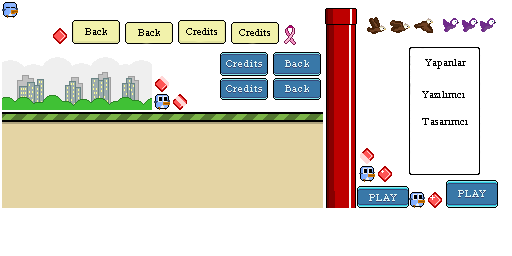
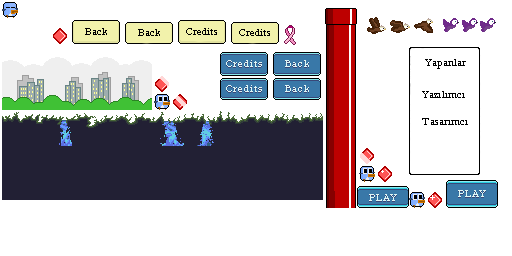
Skin ekrani eklendi (tamamlanmadi), ground degistirildi (optimize degil)

Changed region(s): [[0.0, 0.4375, 0.6562, 0.8125]]

diff --git a/core/src/com/ozzyozdil/flappydeneme/SkinScreen.java b/core/src/com/ozzyozdil/flappydeneme/SkinScreen.java
@@ -1,0 +1,170 @@
+package com.ozzyozdil.flappydeneme;
+
+import static com.ozzyozdil.flappydeneme.Assets.getBird2;
+import static com.ozzyozdil.flappydeneme.Assets.getBird3;
+import static com.ozzyozdil.flappydeneme.Assets.setBird;
+import static com.ozzyozdil.flappydeneme.Assets.setBird2;
+import static com.ozzyozdil.flappydeneme.Assets.setBird3;
+import static com.ozzyozdil.flappydeneme.Assets.setBird4;
+
+import com.badlogic.gdx.Gdx;
+import com.badlogic.gdx.ScreenAdapter;
+import com.badlogic.gdx.graphics.GL20;
+import com.badlogic.gdx.graphics.g2d.TextureAtlas;
+import com.badlogic.gdx.graphics.g2d.TextureRegion;
+import com.badlogic.gdx.scenes.scene2d.InputEvent;
+import com.badlogic.gdx.scenes.scene2d.Stage;
+import com.badlogic.gdx.scenes.scene2d.ui.Button;
+import com.badlogic.gdx.scenes.scene2d.ui.Image;
+import com.badlogic.gdx.scenes.scene2d.utils.ClickListener;
+import com.badlogic.gdx.scenes.scene2d.utils.TextureRegionDrawable;
+import com.badlogic.gdx.utils.Align;
+import com.badlogic.gdx.utils.viewport.StretchViewport;
+
+public class SkinScreen extends ScreenAdapter {
+
+    private FlappyDeneme game;
+    private Stage stage;
+
+    private Image creditsPng;
+    private Image bird1;
+    private Image bird2;
+    private Image bird3;
+    private Image bird4;
+
+    private Button backButton;
+
+    public static TextureAtlas atlas;
+
+    public static TextureRegion bird1Region;
+    public static TextureRegion bird2Region;
+    public static TextureRegion bird3Region;
+    public static TextureRegion bird4Region;
+
+    private Image backgroundBuildings;
+    private Ground ground;
+
+    public SkinScreen(FlappyDeneme game) {
+
+        this.game = game;
+        stage = new Stage(new StretchViewport(FlappyDeneme.WIDTH, FlappyDeneme.HEIGHT));
+
+        creditsAbout();
+        skins();
+        initBackButton();
+
+        ground = new Ground();
+
+        initBackgroundBuildings();
+
+        stage.addActor(ground);
+        stage.addActor(backgroundBuildings);
+        stage.addActor(creditsPng);
+        stage.addActor(bird1);
+        stage.addActor(bird2);
+        stage.addActor(bird3);
+        stage.addActor(bird4);
+        stage.addActor(backButton);
+
+        Gdx.input.setInputProcessor(stage);
+
+        atlas = new TextureAtlas("pack.atlas");
+    }
+
+    private void initBackgroundBuildings() {
+        backgroundBuildings = new Image(Assets.backgroundBuildings);
+        backgroundBuildings.setWidth(FlappyDeneme.WIDTH);
+        backgroundBuildings.setHeight(backgroundBuildings.getHeight() * 2f);
+        backgroundBuildings.setY(Ground.HEIGHT);
+    }
+
+    private void initBackButton() {
+        backButton = new Button(new TextureRegionDrawable(Assets.backUp), new TextureRegionDrawable(Assets.backDown));
+        backButton.setWidth(96);
+        backButton.setHeight(48);
+        backButton.setPosition(FlappyDeneme.WIDTH/2, FlappyDeneme.HEIGHT*.10f, Align.center);
+        backButton.addListener(new ClickListener(){
+
+            @Override
+            public void clicked(InputEvent event, float x, float y) {
+                game.setScreen(new MainMenuScreen(game));
+
+            }
+        });
+    }
+
+    private void creditsAbout() {
+        creditsPng = new Image(new TextureRegionDrawable(Assets.creditsAbout));
+        creditsPng.setWidth(260);
+        creditsPng.setHeight(370);
+        creditsPng.setPosition(FlappyDeneme.WIDTH/2, FlappyDeneme.HEIGHT*.6f, Align.center);
+    }
+
+    private void skins() {
+        bird1 = new Image(new TextureRegionDrawable(Assets.bird));
+        bird1.setWidth(32);
+        bird1.setHeight(32);
+        bird1.setPosition(FlappyDeneme.WIDTH/2 - 60, FlappyDeneme.HEIGHT*.80f, Align.center);
+        bird1.addListener(new ClickListener(){
+
+            @Override
+            public void clicked(InputEvent event, float x, float y) {
+                bird1Region = atlas.findRegion("peng");
+                setBird(bird1Region);
+                game.setScreen(new MainMenuScreen(game));
+            }
+        });
+
+        bird2 = new Image(new TextureRegionDrawable(Assets.bird2));
+        bird2.setWidth(32);
+        bird2.setHeight(32);
+        bird2.setPosition(FlappyDeneme.WIDTH/2 + 60, FlappyDeneme.HEIGHT*.80f, Align.center);
+        bird2.addListener(new ClickListener(){
+
+            @Override
+            public void clicked(InputEvent event, float x, float y) {
+                bird2Region = atlas.findRegion("peng2");
+                setBird2(bird2Region);
+                game.setScreen(new MainMenuScreen(game));
+            }
+        });
+
+        bird3 = new Image(new TextureRegionDrawable(Assets.bird3));
+        bird3.setWidth(32);
+        bird3.setHeight(32);
+        bird3.setPosition(FlappyDeneme.WIDTH/2 - 60, FlappyDeneme.HEIGHT*.60f, Align.center);
+        bird3.addListener(new ClickListener(){
+
+            @Override
+            public void clicked(InputEvent event, float x, float y) {
+                bird3Region = atlas.findRegion("peng3");
+                setBird3(bird3Region);
+                game.setScreen(new MainMenuScreen(game));
+            }
+        });
+
+        bird4 = new Image(new TextureRegionDrawable(Assets.birdDead));
+        bird4.setWidth(32);
+        bird4.setHeight(32);
+        bird4.setPosition(FlappyDeneme.WIDTH/2 + 60, FlappyDeneme.HEIGHT*.60f, Align.center);
+        bird4.addListener(new ClickListener(){
+
+            @Override
+            public void clicked(InputEvent event, float x, float y) {
+                bird4Region = atlas.findRegion("peng-dead");
+                setBird4(bird4Region);
+                game.setScreen(new MainMenuScreen(game));
+            }
+        });
+    }
+
+    @Override
+    public void render(float delta) {
+
+        Gdx.graphics.getGL20().glClearColor(Utils.MAIN_MENU_BACKGROUND_COLOR.r, Utils.MAIN_MENU_BACKGROUND_COLOR.g, Utils.MAIN_MENU_BACKGROUND_COLOR.b, 1f);
+        Gdx.graphics.getGL20().glClear(GL20.GL_COLOR_BUFFER_BIT | GL20.GL_DEPTH_BUFFER_BIT);
+
+        stage.act();
+        stage.draw();
+    }
+}

diff --git a/core/src/com/ozzyozdil/flappydeneme/MainMenuScreen.java b/core/src/com/ozzyozdil/flappydeneme/MainMenuScreen.java
@@ -22,6 +22,7 @@ public class MainMenuScreen extends ScreenAdapter {
     private Label titleLabel;
     private Button playButton;
     private Button creditsButton;
+    private Button skinButton;
     private Image backgroundBuildings;
     private Ground ground;
 
@@ -32,6 +33,7 @@ public class MainMenuScreen extends ScreenAdapter {
 
         initPlayButton();
         initCreditsButton();
+        initSkinButton();
 
         ground = new Ground();
 
@@ -45,6 +47,7 @@ public class MainMenuScreen extends ScreenAdapter {
         stage.addActor(titleLabel);
         stage.addActor(playButton);
         stage.addActor(creditsButton);
+        stage.addActor(skinButton);
 
         Gdx.input.setInputProcessor(stage);
     }
@@ -75,12 +78,27 @@ public class MainMenuScreen extends ScreenAdapter {
         creditsButton = new Button(new TextureRegionDrawable(Assets.creditsUp), new TextureRegionDrawable(Assets.creditsDown));
         creditsButton.setWidth(96);
         creditsButton.setHeight(48);
-        creditsButton.setPosition(FlappyDeneme.WIDTH/2, FlappyDeneme.HEIGHT *.28f, Align.center);
+        creditsButton.setPosition(FlappyDeneme.WIDTH/2 - 55, FlappyDeneme.HEIGHT *.28f, Align.center);
         creditsButton.addListener(new ClickListener(){
 
             @Override
             public void clicked(InputEvent event, float x, float y) {
                 game.setScreen(new CreditsScreen(game));
+
+            }
+        });
+    }
+
+    private void initSkinButton() {
+        skinButton = new Button(new TextureRegionDrawable(Assets.creditsUp), new TextureRegionDrawable(Assets.creditsDown));
+        skinButton.setWidth(96);
+        skinButton.setHeight(48);
+        skinButton.setPosition(FlappyDeneme.WIDTH/2 + 55, FlappyDeneme.HEIGHT *.28f, Align.center);
+        skinButton.addListener(new ClickListener(){
+
+            @Override
+            public void clicked(InputEvent event, float x, float y) {
+                game.setScreen(new SkinScreen(game));
 
             }
         });

diff --git a/core/src/com/ozzyozdil/flappydeneme/Assets.java b/core/src/com/ozzyozdil/flappydeneme/Assets.java
@@ -50,6 +50,38 @@ public class Assets {
     public static Animation birdAnimation;
     public static Animation rubyAnimation;
 
+    public static TextureRegion getBird() {
+        return bird;
+    }
+
+    public static void setBird(TextureRegion bird) {
+        Assets.bird = bird;
+    }
+
+    public static TextureRegion getBird2() {
+        return bird2;
+    }
+
+    public static void setBird2(TextureRegion bird2) {
+        Assets.bird2 = bird2;
+    }
+
+    public static TextureRegion getBird3() {
+        return bird3;
+    }
+
+    public static void setBird3(TextureRegion bird3) {
+        Assets.bird3 = bird3;
+    }
+
+    public static TextureRegion getBird4() {
+        return birdDead;
+    }
+
+    public static void setBird4(TextureRegion bird4) {
+        Assets.birdDead = bird4;
+    }
+
     public static void load() {
 
         atlas = new TextureAtlas("pack.atlas");
@@ -82,7 +114,7 @@ public class Assets {
         ruby6 = atlas.findRegion("ruby6");
 
 
-        birdAnimation = new Animation(.1f, bird, bird2, bird3);
+        birdAnimation = new Animation(.1f, getBird(), getBird2(), getBird3());
         birdAnimation.setPlayMode(Animation.PlayMode.LOOP_PINGPONG);
 
         Array<TextureRegion> rubyArray = new Array<TextureRegion>();
